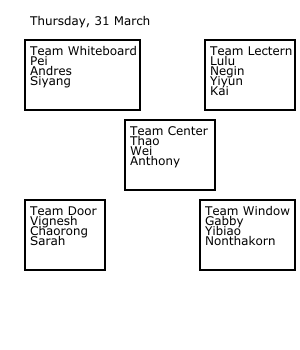
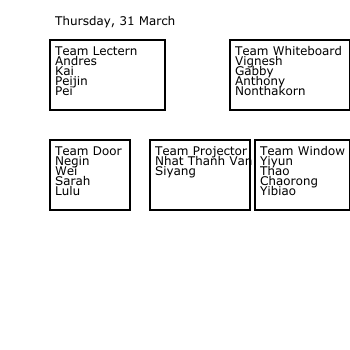
groups for today

Changed region(s): [[0.06, 0.1143, 1.0, 0.7714], [0.09, 0.0286, 0.51, 0.0857]]

diff --git a/makeSmallGroups.py b/makeSmallGroups.py
@@ -17,11 +17,11 @@ def makeSmallGroups():
     studentListFile = 'studentList_' + courseNumber + '.xlsx'
     if courseNumber == 'M227C':
         Teams_list = [
-            ['Door', [-120-5,-40-55,80,70], 3],
-            ['Window', [+55-5,-40-55,95,70], 3],
-            ['Lectern',[+60-5,120-55,90,70], 4],
-            ['Whiteboard',[-120-5,120-55,115,70], 3],
-            ['Center', [-20-5,40-55,90,70], 3]
+            ['Whiteboard',   [+60-5,  120-55, 120, 70], 4],
+            ['Door',         [-120-5, 20-55,  80, 70], 4],
+            ['Window',       [+85-5,  20-55,  95, 70], 4],
+            ['Lectern',      [-120-5, 120-55, 115,70], 4],
+            ['Projector',    [-20-5,  20-55,   100, 70], 4]
             ]
     elif courseNumber == 'P50':
         Teams_list = [
@@ -39,7 +39,8 @@ def makeSmallGroups():
 
     random.shuffle(student_list)
 
-    print(student_list)
+    #print(student_list)
+    #print(len(student_list))
 
     # DATE
 
@@ -48,18 +49,10 @@ def makeSmallGroups():
     datestr = today.strftime("%A, %-d %B")
     print(datestr)
 
-    # Team Window Corner
-    # Team Lectern
-    # Team Center
-    # Team Door
-    # Team Whiteboard Corner
-
-
     Teams = pd.DataFrame(Teams_list, columns=['Name', 'Coords', 'NumberOfThinkers'])
 
-    d = draw.Drawing(300, 350, origin='center', displayInline=False)
+    d = draw.Drawing(350, 350, origin='center', displayInline=False)
 
-    # Draw text
     d.append(draw.Text(datestr, 12, -120, 150, fill='black'))
 
     iStudent = 0
@@ -80,14 +73,16 @@ def makeSmallGroups():
             12,thisTeam['Coords'][0]+5,thisTeam['Coords'][1]+55-10*(iStudent_inThisTeam+1),fill='black')
             iStudent = iStudent + 1
             d.append(studentLabel)
-            if iStudent > len(student_list):
+            if iStudent >= len(student_list):
                 break
+   
 
-    
+    d.saveSvg('teams_' + courseNumber + '.svg')
 
-    d.saveSvg('teams.svg')
+    os.system('/Applications/Inkscape.app/Contents/MacOS/inkscape teams_' + courseNumber + '.svg -o teams_' + courseNumber + '.png')
 
-    os.system('/Applications/Inkscape.app/Contents/MacOS/inkscape teams.svg -o teams.png')
+    if courseNumber=='M227C':
+        os.system('./sendToGithub.sh')
 
 
 if __name__ == '__main__':
